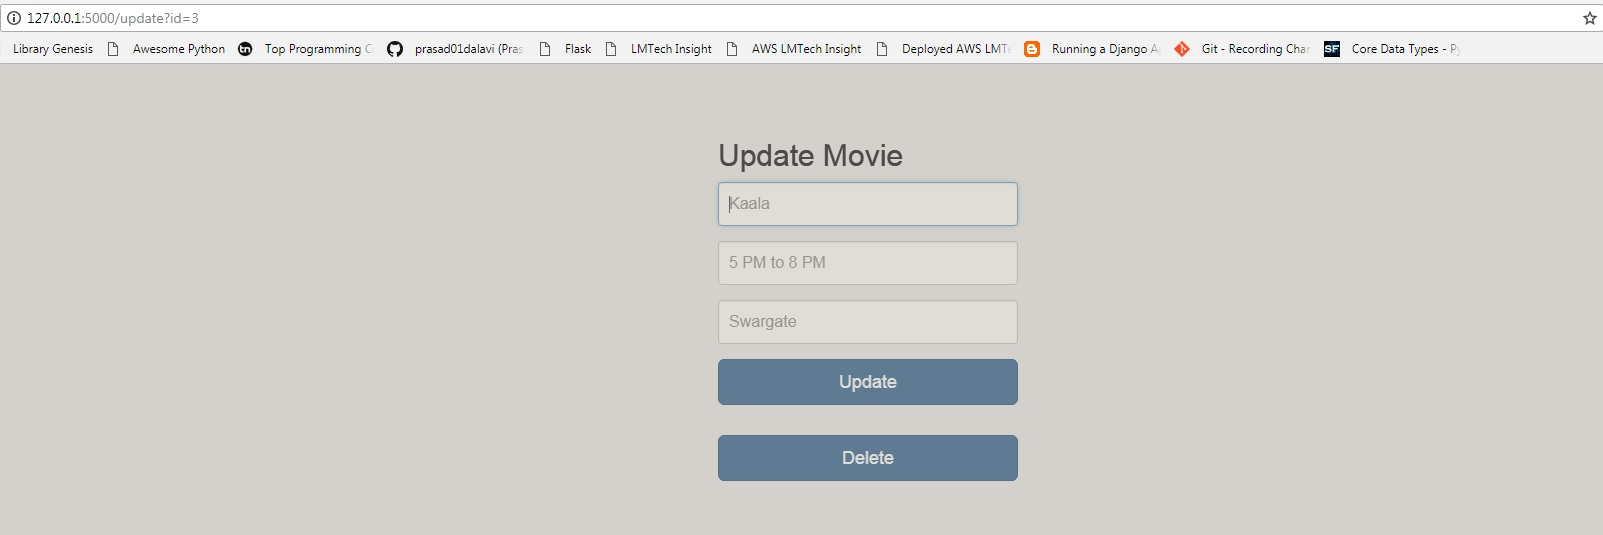
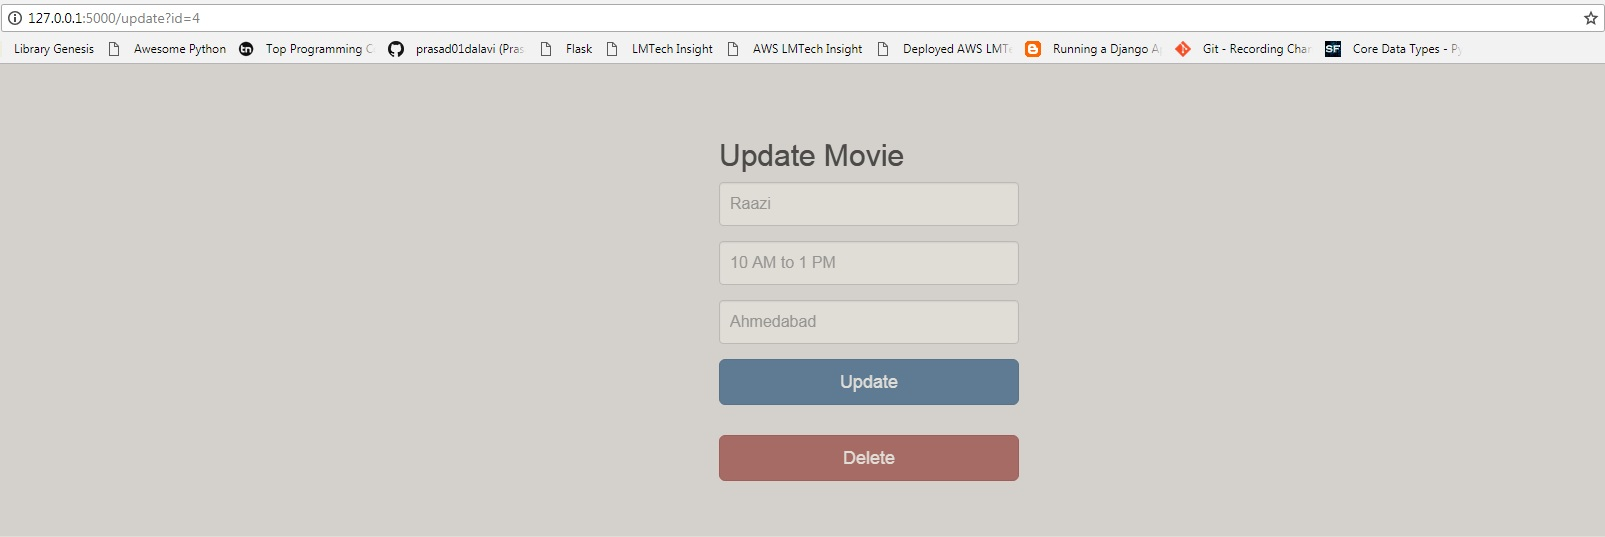
assignment done

diff --git a/templates/edit_movie.html b/templates/edit_movie.html
@@ -41,7 +41,7 @@
       </form>
 
       <form class="form-signin" method="post" action="/delete?id={{ id }}">
-        <button class="btn btn-lg btn-primary btn-block" type="submit">Delete</button>
+        <button class="btn btn-lg btn-danger btn-block" type="submit">Delete</button>
       </form>
 
     </div> 

diff --git a/movies_app.py b/movies_app.py
@@ -1,7 +1,6 @@
 from flask import Flask, render_template, request, redirect, url_for
 from flask_sqlalchemy import SQLAlchemy
 from sqlalchemy.sql import func
-import json
 
 app = Flask(__name__)
 app.config[
@@ -38,7 +37,6 @@ def add():           # This url will be redirected
 @app.route('/process', methods=['POST'])  # http://127.0.0.1:5000/process
 def process():
     # accessing posted data
-    print request.form
     name = request.form['name']
     timing = request.form['timing']
     location = request.form['location']
